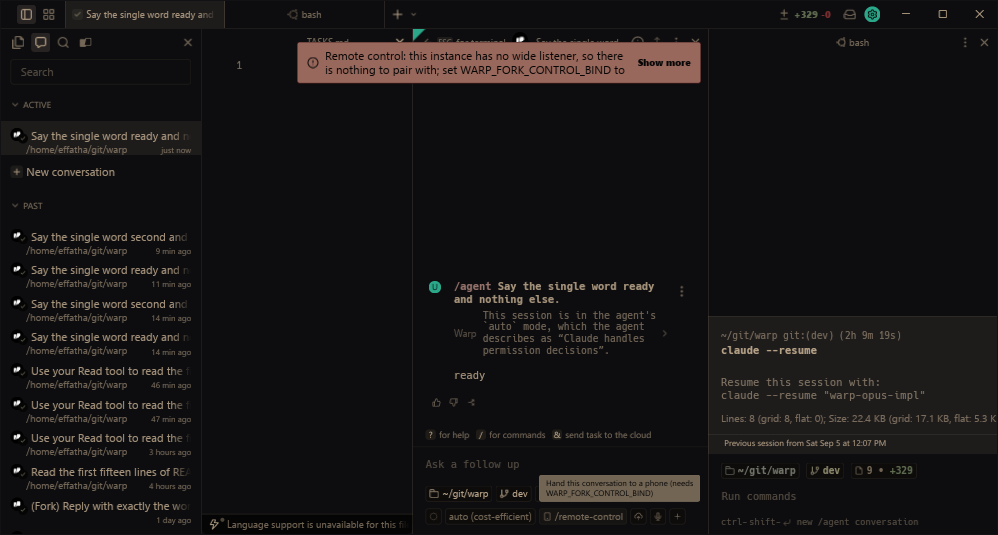
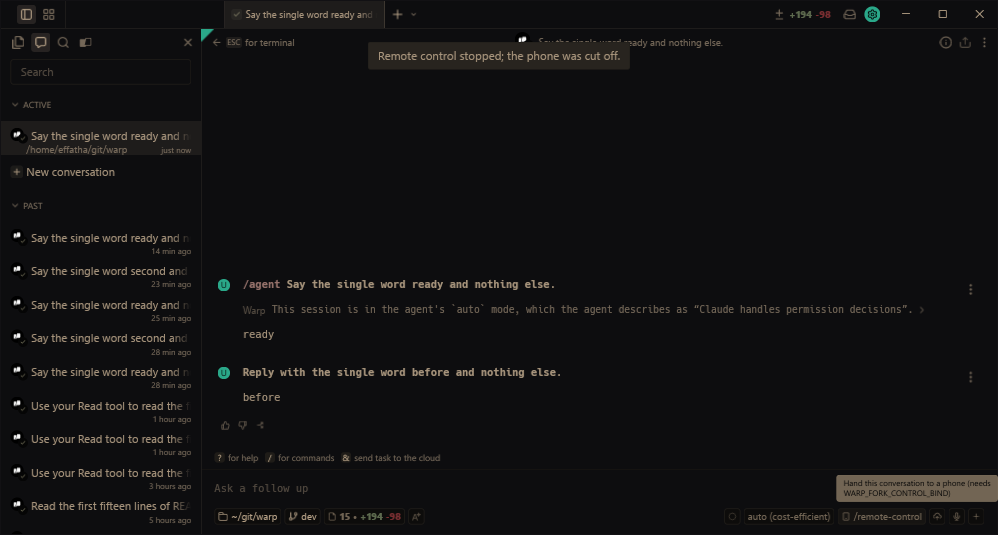
fork: remote control measured twice on windows, the port explained (T19)
`.fork/runs/remote-control-2026-09-05/`. First run, build `9e496b800`: the
scope, the confined grant, the filtered list, three refusals with their
sentences, a prompt from the device landing in the conversation's own pane,
Brave landing on the handed-over conversation with the prompt box and
sending from it, the chip reading Stop sharing and the QR block appearing
in the pane. Two defects out of it, fixed in the two commits before this
one. Second run, build `e8a51f21d`: a text-only turn names the harness's
file and its `ready` is a row; after Stop sharing the kept credential is
refused as invalid and the device as not paired, the toast says the phone
was cut off and the chip flips back; after `window close` no listener
lingers and a relaunch binds the same port.

The port: three instances in a row left their wide listener LISTENING
under a dead pid. `wsl.exe` relays Warp spawns for the git chip had
inherited the handle and outlived the instance. The socket was inheritable
because the locked `mio` creates them so; now marked non-inheritable after
binding. The orphaned relays are recorded, not fixed.

Claude-Session: https://claude.ai/code/session_01LHY214KYu5KvoitnpkWmNh

diff --git a/.fork/runs/remote-control-2026-09-05/README.md b/.fork/runs/remote-control-2026-09-05/README.md
@@ -77,15 +77,58 @@ socket owned by a dead pid is one whose handle something inherited; no
 `wsl.exe`, `node` or `claude-agent-acp` process was left on the Windows side
 to name. This run used `41235`; the cause is open (`driver-attempt1.log`).
 
-## Second run
+## Second run, on `v0.fork.e8a51f21d`
 
-*(filled in below after the rebuild)*
+`rc2a.sh` and `rc2b.sh`, `driver2.log`; the two earlier attempts
+(`driver2-attempt1.log`, `driver2-attempt2.log`) fell over the port and a
+restored window with no terminal, and are kept.
+
+**A text-only turn joins.** Conversation C, one turn, no tool: the trace's
+header names `linked_session_id` and the harness's file inside the
+distribution, 13 lines, and the agent's `ready` is a row. Before the fix the
+same shape traced as Warp's half alone.
+
+**A revoked phone is refused at once.** A device paired for C prompted it
+(`before`, answered in the panel), then minted another `agent.prompt`
+credential and kept it. *Stop sharing* was clicked in the footer
+(`rc2-before-stop.png` at `(890,516)`, `rc2-after-stop.png`: the toast
+*Remote control stopped; the phone was cut off* and the chip back to
+`/remote-control`). Then:
+
+| after the stop | answer |
+|---|---|
+| the kept credential | refused, `unauthorized_local_client`: *credential is invalid* |
+| a fresh credential from the device | refused, `unauthorized_local_client`: *device is not paired with this instance* |
+| C's exchanges | 2: `ready`, `before`; no `after` |
+
+**The listener no longer outlives the instance.** `window close`, then
+`netstat`: no `LISTENING` on `41234`. A relaunch on the same port bound it
+(`local-control wide listener started at 192.168.254.3:41234`, 02:38:01).
+Two orphaned `wsl.exe` relays from this instance were still alive after the
+close, which is the half not fixed: they hold nothing now, and they should
+not exist.
+
+## The port, explained
+
+The listener was inheritable. The `mio` this build locks (1.1.1) creates
+Windows sockets without `WSA_FLAG_NO_HANDLE_INHERIT` (1.2.2 sets it), and
+`std::process::Command` enables handle inheritance whenever it wires up
+stdio, so every child Warp spawned held a copy of the listener. The
+children that outlived the instance were `wsl.exe` relays for the git chip
+and repository metadata, five per instance at launch and more per turn, and
+`git branch` in a bash over WSL should not still be running an hour later.
+Both listeners are marked non-inheritable after binding now
+(`keep_from_children`). Upstream's `9282` fails to bind the same way for the
+same reason. The orphans are recorded, not chased.
 
 ## Files
 
 `rc.sh`, `driver.log`, `driver-attempt1.log`, `launch.txt`, `pair-show.json`
 (spent), `pair.json`, `cred-prompt.json`, `list.json`, `prompt-*.json`,
 `trace-*.json`, `read-b.json`, `trace-live.txt`, `events-b.jsonl`,
-`conversation-b.txt`, `clipboard.txt`, `console-url.txt`, and the
-screenshots `rc-before.png`, `rc-after-start.png`, `console-confined.png`,
-`console-prompted.png`, `console-after-stop.png`.
+`conversation-b.txt`, `clipboard.txt`, `console-url.txt`, the second run's
+`rc2a.sh`, `rc2b.sh`, `driver2*.log`, `trace-c.json`, `pair-show-2.json`,
+`pair-2.json`, `cred-*.json`, `prompt-after-stop.json`, `read-c.json`,
+`conversation-c.txt`, and the screenshots `rc-before.png`,
+`rc-after-start.png`, `rc2-before-stop.png`, `rc2-after-stop.png`,
+`console-confined.png`, `console-prompted.png`, `console-after-stop.png`.

diff --git a/CLAUDE.md b/CLAUDE.md
@@ -702,6 +702,20 @@ alive. Three piled up in one session that way. So `ambiguous_instance` always
 comes from live Warps nobody could stop — whether they refused to close or were
 resurrected by killing their parent — and never from records nobody cleaned.
 
+**…and until 2026-09-05 a closed instance's listeners outlived it on Windows,
+so the next launch on the console's port failed with "only one usage of each
+socket address".** Measured three times in one night: `netstat` showed the
+wide listener `LISTENING` under the dead pid, held by `wsl.exe` children Warp
+had spawned for its git chip and left orphaned. The `mio` this build locks
+creates inheritable sockets, and every child Warp spawns with stdio inherits
+them. Both control listeners are marked non-inheritable now
+(`keep_from_children` in `app/src/local_control/mod.rs`); upstream's `9282`
+still fails to bind the same way, which is the cause behind the egress run's
+"honest note". The orphaned relays themselves are still there after a close
+and are not the fork's fix yet. If a port is refused, `netstat -ano | findstr
+<port>` names the dead pid, and the holders are the `wsl` processes created
+at that instance's start.
+
 **…and `ok: true` from `window close` never meant the window closed.** Read
 2026-08-30: the handler sends the close with `TerminationMode::Cancellable` —
 *"the termination can be interrupted"* — and returns the instant it has asked,

diff --git a/.fork/docs/remote-control.md b/.fork/docs/remote-control.md
@@ -127,7 +127,7 @@ click. Two defects found and closed the same night:
   was drawn in a 300-pixel-wide pane and the text column was clipped at the
   right, readable but not whole.
 - A phone actually scanning the block, as opposed to Brave opening the link.
-- Why a dead instance's wide listener can outlive it: the first launch of the
-  run found `41234` still `LISTENING` under the phase 3 instance's dead pid.
-  Something inherited the handle; nothing on the Windows side was left to
-  name. The run used `41235`.
+- Whether the `wsl.exe` relays Warp spawns for its git chip should outlive
+  the instance at all. They held the wide listener until the listener was
+  marked non-inheritable (`keep_from_children`, measured: a close and a
+  relaunch on the same port); they still outlive it, holding nothing.
